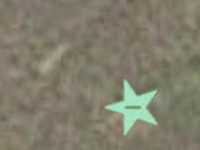
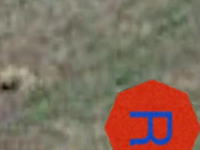
prelimanry target detection

diff --git a/shapeGenerator.py b/shapeGenerator.py
@@ -304,34 +304,85 @@ createStar = True
 
 # CHANGE THESE
 createAllTargets = True
-saveImg = True
+saveImg = False
+saveFullImg = True
 numTargetsPerImg = 1 # inner
-numImgToMake = 2000 # outer
-
-# next to create: quartercircle, star, plus, pentagon
+numImgToMake = 40 # outer
 
 for j in range(numImgToMake):
     if createAllTargets:
         if j == 0:
+            createCircle = True
+            createRect = False
+            createTri = False
+            createSemiCircle = False
+            createQuarterCircle = False
+            createCross = False
+            createPolygon = False
+            createStar = False
+        elif j == (numImgToMake) / 8:
+            createCircle = False
+            createRect = True
+            createTri = False
+            createSemiCircle = False
+            createQuarterCircle = False
+            createCross = False
+            createPolygon = False
+            createStar = False
+        elif j == 2*(numImgToMake) / 8:
+            createCircle = False
+            createRect = False
+            createTri = True
+            createSemiCircle = False
+            createQuarterCircle = False
+            createCross = False
+            createPolygon = False
+            createStar = False
+        elif j == 3*(numImgToMake) / 8:
+            createCircle = False
+            createRect = False
+            createTri = False
+            createSemiCircle = True
+            createQuarterCircle = False
+            createCross = False
+            createPolygon = False
+            createStar = False
+        elif j == 4*(numImgToMake) / 8:
+            createCircle = False
+            createRect = False
+            createTri = False
+            createSemiCircle = False
             createQuarterCircle = True
             createCross = False
             createPolygon = False
             createStar = False
-        elif j == 500:
+        elif j == 5*(numImgToMake) / 8:
+            createCircle = False
+            createRect = False
+            createTri = False
+            createSemiCircle = False
             createQuarterCircle = False
             createCross = True
             createPolygon = False
             createStar = False
-        elif j == 1000:
+        elif j == 6*(numImgToMake) / 8:
+            createCircle = False
+            createRect = False
+            createTri = False
+            createSemiCircle = False
             createQuarterCircle = False
             createCross = False
             createPolygon = True
             createStar = False
-        elif j == 1500:
+        elif j == 7*(numImgToMake) / 8:
+            createCircle = False
+            createRect = False
+            createTri = False
+            createSemiCircle = False
             createQuarterCircle = False
             createCross = False
-            createPolygon = False
-            createStar = True
+            createPolygon = True
+            createStar = False
     base_img = cv2.imread("test google earth.jpg")
     for i in range(numTargetsPerImg):
         fileInfo = []
@@ -396,7 +447,10 @@ for j in range(numImgToMake):
                 cv2.imwrite('Image Dataset/Close Ups/Polygon/'+fileInfo[0]+"_"+fileInfo[1]+"_"+fileInfo[2]+"_"+fileInfo[3]+".png", cropped_img)
             elif createStar:
                 cv2.imwrite('Image Dataset/Close Ups/Star/'+fileInfo[0]+"_"+fileInfo[1]+"_"+fileInfo[2]+"_"+fileInfo[3]+".png", cropped_img)
-        #cv2.imwrite('Image Dataset/Full Image/'+fileInfo[0]+"_"+fileInfo[1]+"_"+fileInfo[2]+"_"+fileInfo[3]+".png", base_img)
+        
+        if saveFullImg:
+           cv2.imwrite('C:/Users/acrog/Documents/Purdue/IEEE/MyDataset/Full Images/'+fileInfo[0]+"_"+fileInfo[1]+"_"+fileInfo[2]+"_"+fileInfo[3]+".png", base_img)
+           
     if j % 100 == 0:
         print(j)
     

diff --git a/Blob Detection/target_detection.py b/Blob Detection/target_detection.py
@@ -7,21 +7,76 @@ Created on Mon Oct 12 17:59:00 2020
 import numpy as np
 import cv2
 
-imagePath = "../Image Dataset/Full Image/circle_#0a6d2e_F_#c29faa.png"
+def resizeImg(img):
+    return cv2.resize(img, (0,0), fx=0.4, fy=0.4,interpolation = cv2.INTER_AREA)
 
-x = 1
+def findcontours(baseImg):
+    contours_img = np.zeros(np.shape(baseImg))
+    
+    #im_gauss = cv2.GaussianBlur(baseImg, (5, 5), 0)
+    im_blur = cv2.medianBlur(baseImg, 1)
+    #thresh = cv2.adaptiveThreshold(im_gauss,255,cv2.ADAPTIVE_THRESH_MEAN_C,cv2.THRESH_BINARY,11,2)
+    #thresh = cv2.adaptiveThreshold(im_blur,255,cv2.ADAPTIVE_THRESH_GAUSSIAN_C, cv2.THRESH_BINARY,11,2)
+    ret, thresh = cv2.threshold(im_blur, 127, 255, 0)
+    # get contours
+    
+    kernel = cv2.getStructuringElement(cv2.MORPH_RECT, (3,3))
+    
+    dialateValue = 1
+    
+    dilate = cv2.dilate(thresh, kernel, iterations=dialateValue)
+    # Find contours and draw rectangle
+    contours, hierarchy = cv2.findContours(dilate, cv2.RETR_EXTERNAL, cv2.CHAIN_APPROX_SIMPLE)
+    
+    #contours, hierarchy = cv2.findContours(thresh, cv2.RETR_TREE, cv2.CHAIN_APPROX_SIMPLE)
+    
+    contours_area = []
+    # calculate area and filter into new array
+    for con in contours:
+        area = cv2.contourArea(con)
+        if 100 < area < 100000:
+            contours_area.append(con)
+            
+    for contour in contours:
+       cv2.drawContours(contours_img, contour, -1, (255, 255, 255), 3)
+    
+    #detector = cv2.SimpleBlobDetector()
+    
+    '''
+    keypoints = detector.detect(baseImg)
+    
+    imgKeypoints = cv2.drawKeypoints(baseImg, keypoints, np.array([]), (0,0,255), cv2.DRAW_MATCHES_FLAGS_DRAW_RICH_KEYPOINTS)
+    
+    '''
+    return contours_img
 
-baseImg = cv2.imread(imagePath)
+def blobDect(baseImg):
+    detector = cv2.SimpleBlobDetector()
+    keypoints = detector.detect(baseImg)
+    blank = np.zeros((1,1))
+    
+    blobs = cv2.drawKeypoints(baseImg, keypoints, blank, (0,255,255), cv2.DRAW_MATCHES_FLAGS_DEFAULT)
+    return blobs
+
+parentDir = "C:/Users/acrog/Documents/Purdue/IEEE/MyDataset/Full Images/"
+imagePath = parentDir + "circle_#53a0b3_H_#851ed8.png"
+
+baseImg = cv2.imread(imagePath, cv2.IMREAD_GRAYSCALE)
+baseImg = baseImg[0:baseImg.shape[1]][200:baseImg.shape[0]]
 print(baseImg)
-'''
-detector = cv2.SimpleBlobDetector()
 
-keypoints = detector.detect(baseImg)
+contourImg = findcontours(baseImg)
 
-imgKeypoints = cv2.drawKeypoints(baseImg, keypoints, np.array([]), (0,0,255), cv2.DRAW_MATCHES_FLAGS_DRAW_RICH_KEYPOINTS)
+#blobImg = blobDect(baseImg)
 
-baseImg = cv2.resize(baseImg, (0,0), fx=0.7, fy=0.7,interpolation = cv2.INTER_AREA)
-print(len(imgKeypoints))
+baseImg = resizeImg(baseImg)
+
+contourImg = resizeImg(contourImg)
+
+#blobImg = resizeImg(blobImg)
+
+cv2.imshow('contour image',contourImg)
 cv2.imshow('base image',baseImg)
+#cv2.imshow('blob image',blobImg)
 cv2.waitKey(0)
-cv2.destroyAllWindows()'''
+cv2.destroyAllWindows()
